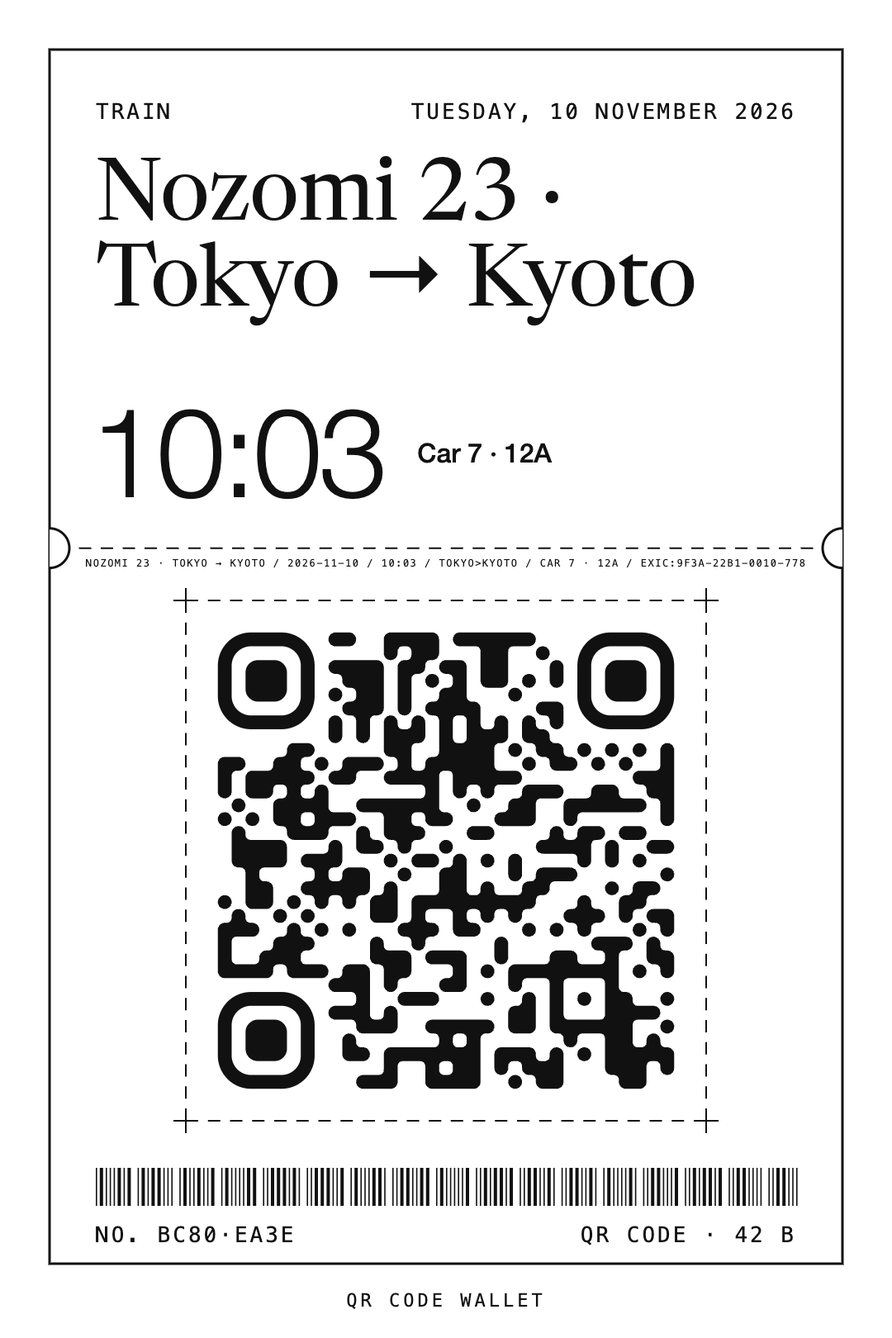
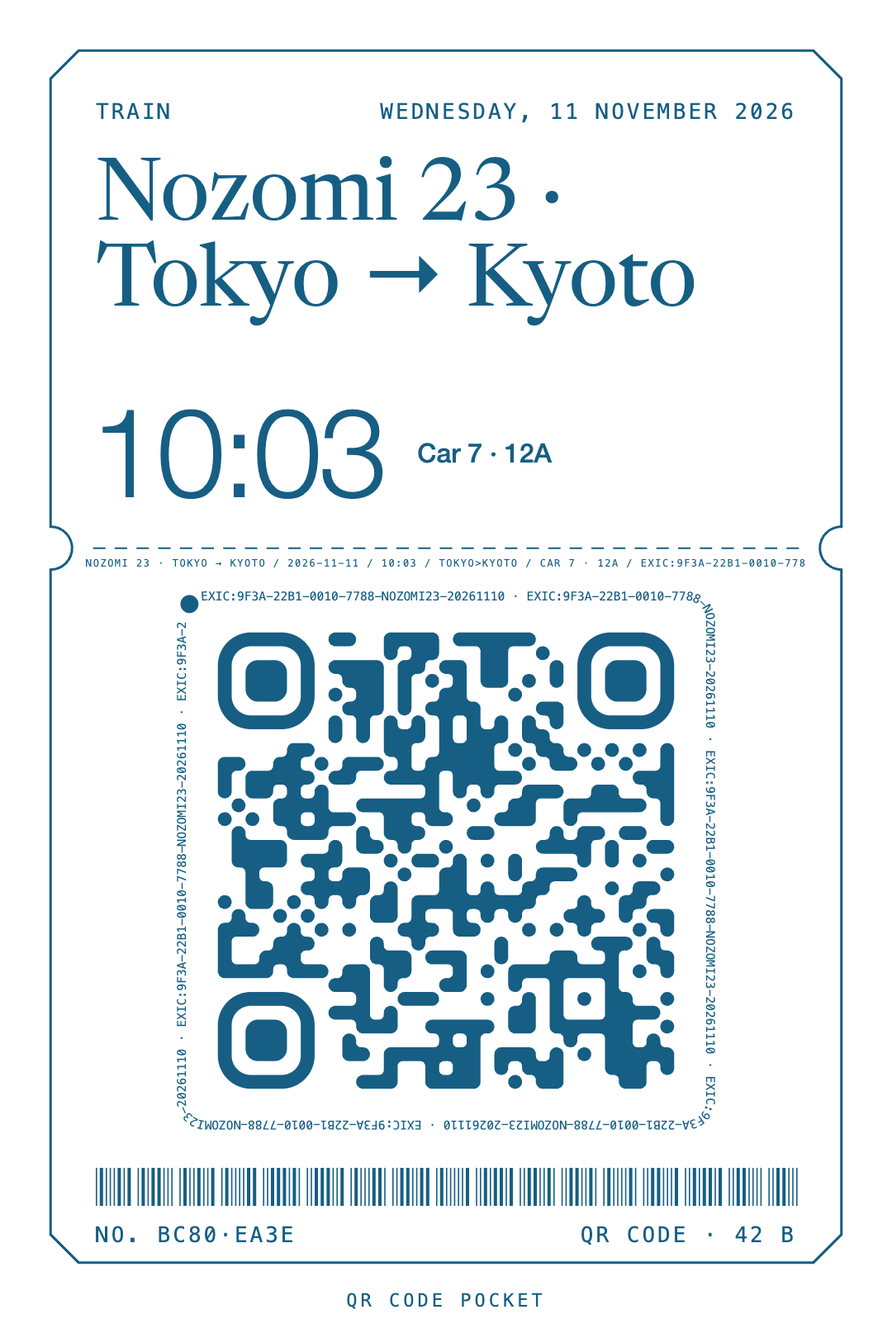
Wi-Fi in Cards, archive for kept things; ready for GitHub Pages
Wi-Fi codes are their own kind and live in Cards with loyalty cards: the
password on the face, no date, and Archive instead of Mark as used
(stamped ARCHIVED into Collected, back with one tap). Older Wi-Fi passes
saved as Other move over on load.

Publishing:
- Pages workflow builds a static copy (STATIC, BASE_PATH, SITE_URL);
  without server.mjs it drops the share target, hides the share inbox
  and offers a picked logo instead of the site lookup.
- Renamed to qr-code-pocket (package, homepage), user-facing Kippu copy
  is now QR Code Pocket / Add to Pocket.
- README rewritten for the public release with fresh screenshots.

diff --git a/src/ui/Fields.tsx b/src/ui/Fields.tsx
@@ -1,5 +1,6 @@
-import { useMemo, useRef, useState } from "react";
-import { CATEGORIES, isCard, isJourney, type Category } from "../categories";
+import { useEffect, useMemo, useRef, useState } from "react";
+import { hasServer } from "../inbox";
+import { CATEGORIES, isCard, isJourney, isKept, type Category } from "../categories";
 import { lookupBrand, siteLabel } from "../scan/brand";
 import { putImage } from "../store/db";
 import { useImageUrl } from "./CodeView";
@@ -87,7 +88,8 @@ export function Fields({ fields, onChange, suggestions, reading, onTouch, touche
   };
   const src = (k: keyof PassFields) => sourceOf(k, fields[k] as string | undefined, suggestions);
   const journey = isJourney(fields.category);
-  const card = isCard(fields.category);
+  const card = isKept(fields.category);
+  const store = isCard(fields.category);
   const s = suggestions;
   const cats = useMemo(() => CATEGORIES, []);
   return (
@@ -99,11 +101,11 @@ export function Fields({ fields, onChange, suggestions, reading, onTouch, touche
           </button>
         ))}
       </div>
-      <Row label={card ? "Store" : "Title"} k="title" value={fields.title} placeholder={reading ? "Reading the ticket…" : card ? "Uniqlo, IKEA Family…" : "What is it?"} onChange={set} source={src("title")} />
+      <Row label={store ? "Store" : card ? "Name" : "Title"} k="title" value={fields.title} placeholder={reading ? "Reading the ticket…" : store ? "Uniqlo, IKEA Family…" : card ? "Hotel Wi-Fi, home…" : "What is it?"} onChange={set} source={src("title")} />
       {s && <Alternatives items={s.titles} current={fields.title} onPick={(v) => set("title", v)} />}
-      {card && <Branding fields={fields} titleIsGuess={!!touched && !touched.has("title")} onChange={(patch) => onChange({ ...fields, ...patch })} />}
+      {store && <Branding fields={fields} titleIsGuess={!!touched && !touched.has("title")} onChange={(patch) => onChange({ ...fields, ...patch })} />}
       {card ? (
-        <Row label="Notes" k="notes" value={fields.notes} placeholder="Card number, PIN, whose card" onChange={set} multiline />
+        <Row label="Notes" k="notes" value={fields.notes} placeholder={store ? "Card number, PIN, whose card" : "Where it works, who gave it to you"} onChange={set} multiline />
       ) : (
         <>
       <Row label="Date" k="date" type="date" value={fields.date} placeholder="Add" onChange={set} source={src("date")} />
@@ -132,6 +134,9 @@ function Branding({ fields, titleIsGuess, onChange }: { fields: PassFields; titl
   const logo = useImageUrl(fields.logoId);
   const file = useRef<HTMLInputElement>(null);
   const valid = /\w\.\w{2,}/.test(siteLabel(site));
+  // Looking a site up needs the app's server; a static copy (GitHub Pages) can only take a picked logo.
+  const [lookup, setLookup] = useState(false);
+  useEffect(() => void hasServer().then(setLookup), []);
 
   async function look() {
     if (!valid) return;
@@ -156,14 +161,15 @@ function Branding({ fields, titleIsGuess, onChange }: { fields: PassFields; titl
         <input
           type="url" inputMode="url" autoCapitalize="none" autoCorrect="off" spellCheck={false} enterKeyHint="search"
           value={site} placeholder="uniqlo.com" onChange={(e) => setSite(e.target.value)}
-          onKeyDown={(e) => e.key === "Enter" && look()} onBlur={() => site !== (fields.site ?? "") && valid && look()}
+          onKeyDown={(e) => e.key === "Enter" && (lookup ? look() : onChange({ site: siteLabel(site) }))}
+          onBlur={() => site !== (fields.site ?? "") && valid && (lookup ? look() : onChange({ site: siteLabel(site) }))}
         />
       </label>
       <div className="brand-row">
         <span className="brand-logo">{logo ? <img src={logo} alt="" /> : <span className="brand-blank" />}</span>
         <span className="brand-actions">
-          <button className="link strong" onClick={look} disabled={!valid || state === "looking"}>{state === "looking" ? "Looking it up…" : "Get logo from site"}</button>
-          <button className="link" onClick={() => file.current?.click()}>Choose image</button>
+          {lookup && <button className="link strong" onClick={look} disabled={!valid || state === "looking"}>{state === "looking" ? "Looking it up…" : "Get logo from site"}</button>}
+          <button className={lookup ? "link" : "link strong"} onClick={() => file.current?.click()}>{lookup ? "Choose image" : "Choose logo image"}</button>
           {fields.logoId && <button className="link" onClick={() => onChange({ logoId: undefined })}>Remove</button>}
         </span>
         <input ref={file} type="file" accept="image/*" hidden onChange={async (e) => {

diff --git a/src/ui/Settings.tsx b/src/ui/Settings.tsx
@@ -15,7 +15,7 @@ export function Settings({ onClose, shareReady, focusShare }: { onClose: () => v
   const [persisted, setPersisted] = useState<boolean>();
   const [copied, setCopied] = useState(false);
   const [signed, setSigned] = useState(false);
-  const shortcutUrl = `${import.meta.env.BASE_URL}Add-to-Kippu.shortcut`;
+  const shortcutUrl = `${import.meta.env.BASE_URL}Add-to-Pocket.shortcut`;
 
   useEffect(() => {
     navigator.storage?.estimate?.().then((e) => e.usage && setUsage(`${(e.usage / 1024 / 1024).toFixed(1)} MB`));
@@ -28,7 +28,7 @@ export function Settings({ onClose, shareReady, focusShare }: { onClose: () => v
     const f = await exportBackup();
     if (navigator.canShare?.({ files: [f] })) {
       try {
-        await navigator.share({ files: [f], title: "Kippu backup" });
+        await navigator.share({ files: [f], title: "QR Code Pocket backup" });
       } catch {
         /* cancelled */
       }
@@ -66,20 +66,20 @@ export function Settings({ onClose, shareReady, focusShare }: { onClose: () => v
           <h3>Add from the share sheet</h3>
           {shareReady ? (
             <>
-              <p className="small">iPhone doesn't let Home Screen web apps appear in the share sheet, so a Shortcut does it: share a screenshot or PDF to <strong>Add to Kippu</strong>, then open Kippu and it's there.</p>
+              <p className="small">iPhone doesn't let Home Screen web apps appear in the share sheet, so a Shortcut does it: share a screenshot or PDF to <strong>Add to Pocket</strong>, then open the app and it's there.</p>
               {signed && (
-                <a className="btn solid wide" href={shortcutUrl} download="Add to Kippu.shortcut" target="_blank" rel="noreferrer">
-                  Get the “Add to Kippu” shortcut
+                <a className="btn solid wide" href={shortcutUrl} download="Add to Pocket.shortcut" target="_blank" rel="noreferrer">
+                  Get the “Add to Pocket” shortcut
                 </a>
               )}
               <details className="small" open={!signed}>
                 <summary>{signed ? "Or build it yourself" : "Build the shortcut"}</summary>
               <ol className="steps small">
-                <li>Open <strong>Shortcuts</strong>, tap <strong>+</strong>, name it <strong>Add to Kippu</strong>.</li>
+                <li>Open <strong>Shortcuts</strong>, tap <strong>+</strong>, name it <strong>Add to Pocket</strong>.</li>
                 <li>Tap the <strong>ⓘ</strong> (or the name) and turn on <strong>Show in Share Sheet</strong>. Set it to receive <strong>Images</strong> and <strong>PDFs</strong>.</li>
                 <li>Add <strong>Repeat with Each</strong> item in <em>Shortcut Input</em>.</li>
                 <li>Inside it, add <strong>Get Contents of URL</strong> with the address below. Show more: Method <strong>POST</strong>, Request Body <strong>File</strong>, File: <em>Repeat Item</em>.</li>
-                <li>Optional: after the repeat, <strong>Show Notification</strong> “Added to Kippu”.</li>
+                <li>Optional: after the repeat, <strong>Show Notification</strong> “Added to your pocket”.</li>
               </ol>
               <div className="copy-row">
                 <code>{inboxUrl()}</code>
@@ -95,10 +95,10 @@ export function Settings({ onClose, shareReady, focusShare }: { onClose: () => v
                 </button>
               </div>
               </details>
-              <p className="muted small">Works while the phone is on your tailnet. On Android, Kippu shows up in the share sheet by itself once installed.</p>
+              <p className="muted small">Works while the phone can reach this server. On Android, the app shows up in the share sheet by itself once installed.</p>
             </>
           ) : (
-            <p className="muted small">The share inbox isn't available where this copy of Kippu is hosted. Import from Photos &amp; Files instead.</p>
+            <p className="muted small">Sharing straight from the share sheet needs the app's small server (see the README to host your own). Here, add from Photos &amp; Files instead.</p>
           )}
         </section>
 

diff --git a/src/ui/Postmark.tsx b/src/ui/Postmark.tsx
@@ -5,7 +5,7 @@ import { useId } from "react";
  * USED · 使用済 around the bottom, the date big across the middle; a little ink grain and a ragged
  * edge so it reads as pressed, not drawn. One ink, like everything else.
  */
-export function stampSvg({ date, place, color, id, size }: { date: string; place?: string; color: string; id: string; size?: number }) {
+export function stampSvg({ date, place, color, id, size, archived }: { date: string; place?: string; color: string; id: string; size?: number; archived?: boolean }) {
   const esc = (s: string) => s.replace(/[&<>"]/g, (c) => `&#${c.charCodeAt(0)};`);
   const seed = [...date + (place ?? "")].reduce((a, c) => (a * 31 + c.charCodeAt(0)) % 997, 7);
   const top = esc((place ?? "Collected").toUpperCase().slice(0, 18));
@@ -26,7 +26,7 @@ export function stampSvg({ date, place, color, id, size }: { date: string; place
 <circle cx="100" cy="100" r="90" fill="none" stroke-width="8"/>
 <circle cx="100" cy="100" r="62" fill="none" stroke-width="2.5"/>
 <text font-family="Helvetica Neue,Arial,sans-serif" font-size="15" font-weight="800" letter-spacing="2" stroke="none"><textPath href="#${id}t" startOffset="50%" text-anchor="middle">${top}</textPath></text>
-<text font-family="Helvetica Neue,Arial,Hiragino Sans,sans-serif" font-size="13" font-weight="800" letter-spacing="2" stroke="none"><textPath href="#${id}b" startOffset="50%" text-anchor="middle">★ USED · 使用済 ★</textPath></text>
+<text font-family="Helvetica Neue,Arial,Hiragino Sans,sans-serif" font-size="13" font-weight="800" letter-spacing="2" stroke="none"><textPath href="#${id}b" startOffset="50%" text-anchor="middle">${archived ? "★ ARCHIVED · 保管 ★" : "★ USED · 使用済 ★"}</textPath></text>
 <rect x="44" y="78" width="112" height="4" stroke="none"/>
 <rect x="44" y="118" width="112" height="4" stroke="none"/>
 <text x="100" y="110" text-anchor="middle" font-family="SF Mono,Menlo,monospace" font-size="23" font-weight="800" letter-spacing="0" stroke="none">${esc(date)}</text>
@@ -34,9 +34,9 @@ export function stampSvg({ date, place, color, id, size }: { date: string; place
 </svg>`;
 }
 
-export function Postmark({ date, place, className = "" }: { date: string; place?: string; className?: string }) {
+export function Postmark({ date, place, className = "", archived }: { date: string; place?: string; className?: string; archived?: boolean }) {
   const id = `s${useId().replace(/\W/g, "")}`;
-  return <span className={`postmark ${className}`} role="img" aria-label={`Used ${date}`} dangerouslySetInnerHTML={{ __html: stampSvg({ date, place, color: "currentColor", id }) }} />;
+  return <span className={`postmark ${className}`} role="img" aria-label={`${archived ? "Archived" : "Used"} ${date}`} dangerouslySetInnerHTML={{ __html: stampSvg({ date, place, color: "currentColor", id, archived }) }} />;
 }
 
 const pad = (n: number) => String(n).padStart(2, "0");
@@ -46,4 +46,4 @@ export const postmarkDate = (ms: number) => {
 };
 
 /** The same stamp as an SVG string, for drawing onto the share image. */
-export const postmarkSvg = (date: string, place: string | undefined, color: string, _under: string, size: number) => stampSvg({ date, place, color, id: "pm", size });
+export const postmarkSvg = (date: string, place: string | undefined, color: string, _under: string, size: number, archived = false) => stampSvg({ date, place, color, id: "pm", size, archived });

diff --git a/src/ui/TicketParts.tsx b/src/ui/TicketParts.tsx
@@ -1,6 +1,6 @@
 import { AnimatePresence, motion } from "motion/react";
 import { useEffect, useLayoutEffect, useRef, useState } from "react";
-import { isJourney } from "../categories";
+import { isJourney, isKept } from "../categories";
 import type { Pass } from "../store/db";
 import { deletePass, updatePass } from "../store/passes";
 import { colours, setTheme, useTheme } from "../theme";
@@ -109,6 +109,7 @@ export function TicketFace({ pass, current, stamping, onUse, onRestore, onPlain 
   const plainInk = useTheme((s) => colours(s).plainInk);
   const lit = bright && !!code && !pass.usedAt;
   const shape = shapeOf(pass.category);
+  const kept = isKept(pass.category);
   return (
     <div className="face">
         <div className={`ticket shaped ${shape.line}${pass.usedAt || stamping ? " used" : ""}`} data-shape={pass.category}>
@@ -143,7 +144,7 @@ export function TicketFace({ pass, current, stamping, onUse, onRestore, onPlain 
                   animate={{ opacity: 1, transform: "scale(1) rotate(0deg)" }}
                   transition={{ type: "spring", duration: 0.45, bounce: 0.25 }}
                 >
-                  <Postmark date={postmarkDate(pass.usedAt ?? Date.now())} place={pass.from ?? pass.place} />
+                  <Postmark date={postmarkDate(pass.usedAt ?? Date.now())} place={pass.from ?? pass.place ?? (kept ? pass.title : undefined)} archived={kept} />
                 </motion.div>
               )}
             </AnimatePresence>
@@ -159,8 +160,10 @@ export function TicketFace({ pass, current, stamping, onUse, onRestore, onPlain 
         </footer>
       </div>
       <div className="page-actions">
-        {pass.category === "card" && !pass.usedAt ? null : pass.usedAt ? (
-          <button className="btn line wide-flex" onClick={onRestore}>Back to upcoming</button>
+        {pass.usedAt ? (
+          <button className="btn line wide-flex" onClick={onRestore}>{kept ? "Back to cards" : "Back to upcoming"}</button>
+        ) : kept ? (
+          <button className="btn line wide-flex" onClick={onUse} disabled={stamping}>{stamping ? "Archived" : "Archive"}</button>
         ) : (
           <button className="btn solid wide-flex" onClick={onUse} disabled={stamping}>{stamping ? "Postmarked" : "Mark as used"}</button>
         )}
@@ -252,7 +255,7 @@ export function EditTicket({ pass, onDone, onDeleted }: { pass: Pass; onDone: ()
           </dl>
         )}
         <button className="btn line wide danger" onClick={async () => { if (confirm(`Delete “${pass.title || "this ticket"}”? This can't be undone.`)) { await deletePass(pass.id); onDeleted(); } }}>
-          {pass.category === "card" ? "Delete card" : "Delete ticket"}
+          {isKept(pass.category) ? "Delete card" : "Delete ticket"}
         </button>
       </div>
     </>

diff --git a/vite.config.ts b/vite.config.ts
@@ -4,8 +4,11 @@ import { defineConfig, type Plugin } from "vite";
 import { VitePWA } from "vite-plugin-pwa";
 import pkg from "./package.json" with { type: "json" };
 
-/** Where the app is served from: "/" on its own origin (Tailscale), "/kippu/" on GitHub Pages. */
+/** Where the app is served from: "/" on its own origin (server.mjs), "/qr-code-pocket/" on GitHub Pages. */
 const base = process.env.BASE_PATH ?? "/";
+
+/** A static build (GitHub Pages): no server.mjs behind it, so no share target posting to it. */
+const isStatic = !!process.env.STATIC;
 
 /** Short commit of the build, shown in Settings so you can tell which version a phone is running. */
 const commit = (() => {
@@ -76,7 +79,7 @@ export default defineConfig({
         id: base,
         name: "QR Code Pocket",
         short_name: "QR Pocket",
-        description: "A wallet for the QR codes you collect while travelling: tickets, entries, reservations. Stamp them when used.",
+        description: "Keep every QR code in your pocket: tickets, entries, reservations, loyalty cards, Wi-Fi. Reads them for you, works offline, no account.",
         lang: "en",
         theme_color: "#ffffff",
         background_color: "#ffffff",
@@ -85,13 +88,17 @@ export default defineConfig({
         categories: ["travel", "utilities", "lifestyle"],
         // Shown in Android's and desktop Chrome's richer install dialog.
         screenshots: [{ src: `${base}og.png`, sizes: "1200x630", type: "image/png", form_factor: "wide", label: "QR Code Pocket" }],
-        // Android: Kippu appears in the share sheet. The server stores the files in its inbox (server.mjs).
-        share_target: {
-          action: `${base}api/share`,
-          method: "POST",
-          enctype: "multipart/form-data",
-          params: { title: "title", text: "text", url: "url", files: [{ name: "files", accept: ["image/*", "application/pdf", ".pdf"] }] },
-        },
+        // Android: the app appears in the share sheet; the server stores the files in its inbox (server.mjs).
+        ...(isStatic
+          ? {}
+          : {
+              share_target: {
+                action: `${base}api/share`,
+                method: "POST",
+                enctype: "multipart/form-data",
+                params: { title: "title", text: "text", url: "url", files: [{ name: "files", accept: ["image/*", "application/pdf", ".pdf"] }] },
+              },
+            }),
       },
     }),
   ],

diff --git a/src/App.tsx b/src/App.tsx
@@ -5,7 +5,7 @@ import { draftFromText, type Draft } from "./scan/importer";
 import { loadPasses, usePasses, walletOrder, walletSort } from "./store/passes";
 import { useTheme } from "./theme";
 import { AddSheet } from "./ui/AddSheet";
-import { categoryInfo } from "./categories";
+import { isKept, categoryInfo } from "./categories";
 import { WalletStack } from "./ui/WalletStack";
 import { historyDay } from "./ui/format";
 import { Onboarding } from "./ui/Onboarding";
@@ -37,8 +37,8 @@ export function App() {
   const [toast, setToast] = useState<Toast>();
   const [shareReady, setShareReady] = useState(false);
 
-  const upcoming = useMemo(() => walletSort(passes.filter((p) => !p.usedAt && p.category !== "card")), [passes]);
-  const cards = useMemo(() => walletSort(passes.filter((p) => !p.usedAt && p.category === "card")), [passes]);
+  const upcoming = useMemo(() => walletSort(passes.filter((p) => !p.usedAt && !isKept(p.category))), [passes]);
+  const cards = useMemo(() => walletSort(passes.filter((p) => !p.usedAt && isKept(p.category))), [passes]);
   const collected = useMemo(() => passes.filter((p) => p.usedAt).sort(byUsed), [passes]);
   // Tabs exist only for what you have: no Cards tab without a card, no Collected before the first use.
   const shown = { upcoming: true, cards: cards.length > 0, collected: collected.length > 0 };
@@ -200,7 +200,7 @@ export function App() {
               onDone={(n, cats) => {
                 setSources(undefined);
                 if (n) {
-                  const allCards = cats.every((c) => c === "card");
+                  const allCards = cats.every(isKept);
                   setTab(allCards ? "cards" : "upcoming");
                   showToast(n === 1 ? "Added to your pocket" : `Added ${n} ${allCards ? "cards" : "tickets"}`);
                 }

diff --git a/src/ui/WalletStack.tsx b/src/ui/WalletStack.tsx
@@ -1,5 +1,6 @@
 import { AnimatePresence, motion, useReducedMotion } from "motion/react";
 import { useCallback, useEffect, useLayoutEffect, useRef, useState } from "react";
+import { isKept } from "../categories";
 import type { Pass } from "../store/db";
 import { markUsed, reorder, restore } from "../store/passes";
 import { Close } from "./icons";
@@ -271,14 +272,14 @@ export function WalletStack({ passes, onToast, onSelecting, reorderable = false 
     await new Promise((r) => setTimeout(r, 520));
     await leave(p.id);
     await markUsed(p.id);
-    onToast(`${p.title || "Ticket"} moved to Collected`, () => restore(p.id));
+    onToast(isKept(p.category) ? `${p.title || "Card"} archived` : `${p.title || "Ticket"} moved to Collected`, () => restore(p.id));
   }
   async function restoreIt(p: Pass) {
     select(undefined);
     await new Promise((r) => setTimeout(r, 520));
     await leave(p.id);
     await restore(p.id);
-    onToast(`${p.title || "Ticket"} is back in Upcoming`);
+    onToast(`${p.title || "Ticket"} is back in ${isKept(p.category) ? "Cards" : "Upcoming"}`);
   }
   const act = (a: Action) => (a === "share" ? selected && shareTicket(selected) : setOverlay(a));
 
@@ -326,7 +327,7 @@ export function WalletStack({ passes, onToast, onSelecting, reorderable = false 
               onPlain={() => setOverlay("plain")}
               onAction={act}
             />
-            {p.usedAt && !open && <Postmark date={postmarkDate(p.usedAt)} place={p.from ?? p.place} className="card-postmark" />}
+            {p.usedAt && !open && <Postmark date={postmarkDate(p.usedAt)} place={p.from ?? p.place ?? (isKept(p.category) ? p.title : undefined)} archived={isKept(p.category)} className="card-postmark" />}
           </motion.div>
         );
       })}

diff --git a/src/categories.ts b/src/categories.ts
@@ -1,4 +1,4 @@
-export type Category = "train" | "transit" | "flight" | "sight" | "food" | "event" | "stay" | "card" | "other";
+export type Category = "train" | "transit" | "flight" | "sight" | "food" | "event" | "stay" | "card" | "wifi" | "other";
 
 export interface CategoryInfo {
   id: Category;
@@ -19,13 +19,20 @@ export const CATEGORIES: CategoryInfo[] = [
   { id: "flight", label: "Flight", kanji: "空", from: "#5c74a8", to: "#1a2442" },
   { id: "stay", label: "Stay", kanji: "宿", from: "#1fb386", to: "#0a5c45" },
   { id: "card", label: "Card", kanji: "会", from: "#c9a227", to: "#6b5410" },
+  { id: "wifi", label: "Wi-Fi", kanji: "網", from: "#3a8fd8", to: "#14406e" },
   { id: "other", label: "Other", kanji: "札", from: "#5d6270", to: "#25282f" },
 ];
 
 export const categoryInfo = (id: Category) => CATEGORIES.find((c) => c.id === id) ?? CATEGORIES[CATEGORIES.length - 1];
 
-/** Loyalty and membership cards: no date, never used up; they live in their own tab. */
+/** Loyalty and membership cards: a store, a website, a logo. */
 export const isCard = (id: Category) => id === "card";
+
+/**
+ * Things you keep rather than use up (loyalty cards, Wi-Fi): no date, no countdown, never "used".
+ * They live in the Cards tab, and get archived instead of postmarked.
+ */
+export const isKept = (id: Category) => id === "card" || id === "wifi";
 
 /** Categories that read like a journey: they get the from → to line and a seat. */
 export const isJourney = (id: Category) => id === "train" || id === "transit" || id === "flight";

diff --git a/index.html b/index.html
@@ -14,8 +14,8 @@
 
     <!-- Search and sharing. %SITE_URL% is the deployed origin, filled in at build (vite.config.ts). -->
     <title>QR Code Pocket · Tickets, passes and QR codes in one place</title>
-    <meta name="description" content="Save and keep all your QR codes in one place: a QR code wallet for train tickets, museum entries, restaurant bookings and boarding passes. Add a screenshot or PDF; it's read on your phone. Local-first, works offline, no account." />
-    <meta name="keywords" content="QR code pocket, QR code wallet, QR code keeper, QR code holder, QR code saver, save QR codes, keep QR codes, store QR codes, QR code app, ticket wallet, e-ticket app, boarding pass offline, local-first, PWA" />
+    <meta name="description" content="Save and keep all your QR codes in one place: a QR code wallet for train tickets, museum entries, restaurant bookings, boarding passes, loyalty cards and Wi-Fi. Add a screenshot or PDF; it's read on your phone. Local-first, works offline, no account." />
+    <meta name="keywords" content="QR code pocket, loyalty card wallet, Wi-Fi QR code, save Wi-Fi password, QR code wallet, QR code keeper, QR code holder, QR code saver, save QR codes, keep QR codes, store QR codes, QR code app, ticket wallet, e-ticket app, boarding pass offline, local-first, PWA" />
     <meta name="robots" content="index, follow, max-image-preview:large" />
     <link rel="canonical" href="%SITE_URL%/" />
 

diff --git a/src/ui/shareImage.ts b/src/ui/shareImage.ts
@@ -1,3 +1,4 @@
+import { isKept } from "../categories";
 import { imageUrl, type Pass } from "../store/db";
 import { colours, getTheme } from "../theme";
 import { longDate, prettyFormat } from "./format";
@@ -186,7 +187,7 @@ export async function ticketImage(pass: Pass, codeIndex = 0): Promise<Blob> {
   ctx.textAlign = "left";
   ctx.fillText([t.issuer, t.cat.label !== t.issuer ? t.cat.label : undefined].filter(Boolean).join(" · ").toUpperCase(), X + P, Y + 84);
   ctx.textAlign = "right";
-  ctx.fillText((pass.category === "card" ? t.day ?? "" : pass.date ? longDate(pass.date) : "Undated").toUpperCase(), X + TW - P, Y + 84);
+  ctx.fillText((isKept(pass.category) ? t.day ?? "" : pass.date ? longDate(pass.date) : "Undated").toUpperCase(), X + TW - P, Y + 84);
   ctx.textAlign = "left";
   spaced(ctx, 0);
 
@@ -310,7 +311,7 @@ export async function ticketImage(pass: Pass, codeIndex = 0): Promise<Blob> {
   }
   if (pass.usedAt) {
     const ps = Math.round(s * 0.78);
-    const pm = await loadSvg(postmarkSvg(postmarkDate(pass.usedAt), pass.from ?? pass.place, fg, bg, ps), ps, ps);
+    const pm = await loadSvg(postmarkSvg(postmarkDate(pass.usedAt), pass.from ?? pass.place ?? (isKept(pass.category) ? pass.title : undefined), fg, bg, ps, isKept(pass.category)), ps, ps);
     ctx.save();
     ctx.translate(qx + s / 2, qy + s / 2);
     ctx.rotate(-0.21);

diff --git a/src/scan/extract.ts b/src/scan/extract.ts
@@ -27,6 +27,7 @@ const KEYWORDS: Record<Exclude<Category, "other">, (string | RegExp)[]> = {
   food: ["restaurant", "レストラン", "lunch", "ランチ", "dinner", "ディナー", "takeout", "テイクアウト", "take away", "注文", "order", "cafe", "カフェ", "ramen", "ラーメン", "sushi", "寿司", "鮨", "tablecheck", "tabelog", "食べログ", "omakase", "おまかせ", "コース", "course", "席のみ", "居酒屋", "izakaya", "焼肉", "yakiniku", "menu", "メニュー", "番号札", "整理券"],
   event: ["concert", "ライブ", "公演", "開演", "開場", "festival", "フェス", "祭", "match", "試合", "theater", "theatre", "劇場", "show", "ショー", "stadium", "スタジアム", "ドーム", "arena", "アリーナ", "eplus", "イープラス", "チケットぴあ", "ローチケ"],
   card: ["member", "membership", "loyalty", "rewards", "points", "point card", "ポイント", "会員", "メンバーズ", "カード番号", "card no", "card number", "club card", "bonus card", "kundenkarte", "payback"],
+  wifi: ["wi-fi", "wifi", "wlan", "ssid", "無線lan", "network name", "ネットワーク名"],
   stay: ["hotel", "ホテル", "旅館", "ryokan", "check-in", "check in", "チェックイン", "宿泊", "airbnb", "booking.com", "hostel", "ホステル", "guest house", "ゲストハウス", "部屋", "room"],
 };
 

diff --git a/src/ui/Review.tsx b/src/ui/Review.tsx
@@ -1,5 +1,5 @@
 import { useEffect, useMemo, useRef, useState } from "react";
-import type { Category } from "../categories";
+import { isKept, type Category } from "../categories";
 import { combine, draftFromFile, saveDraft, withText, type Draft, type PassFields } from "../scan/importer";
 import { prepareOcr, recognize } from "../scan/ocr";
 import type { Code } from "../store/db";
@@ -130,7 +130,7 @@ export function Review({ sources, onDone }: { sources: Source[]; onDone: (saved:
     <>
       <div className="bar">
         <button className="link" onClick={() => onDone(saved.current, cats.current)}>{saved.current ? "Done" : "Cancel"}</button>
-        <span className="bar-title">{items.length > 1 ? `${index + 1} / ${items.length}` : item.fields.category === "card" ? "New card" : "New ticket"}</span>
+        <span className="bar-title">{items.length > 1 ? `${index + 1} / ${items.length}` : isKept(item.fields.category) ? "New card" : "New ticket"}</span>
         <button className="link strong" onClick={save} disabled={item.status === "reading" || saving}>Add</button>
       </div>
       <div className="scroll review">
